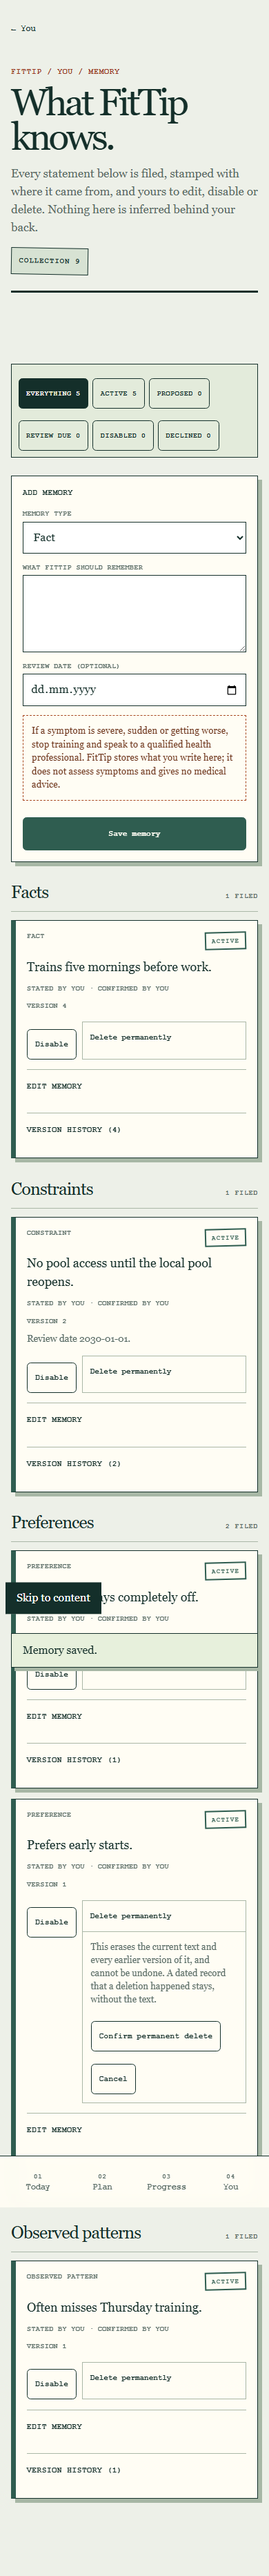
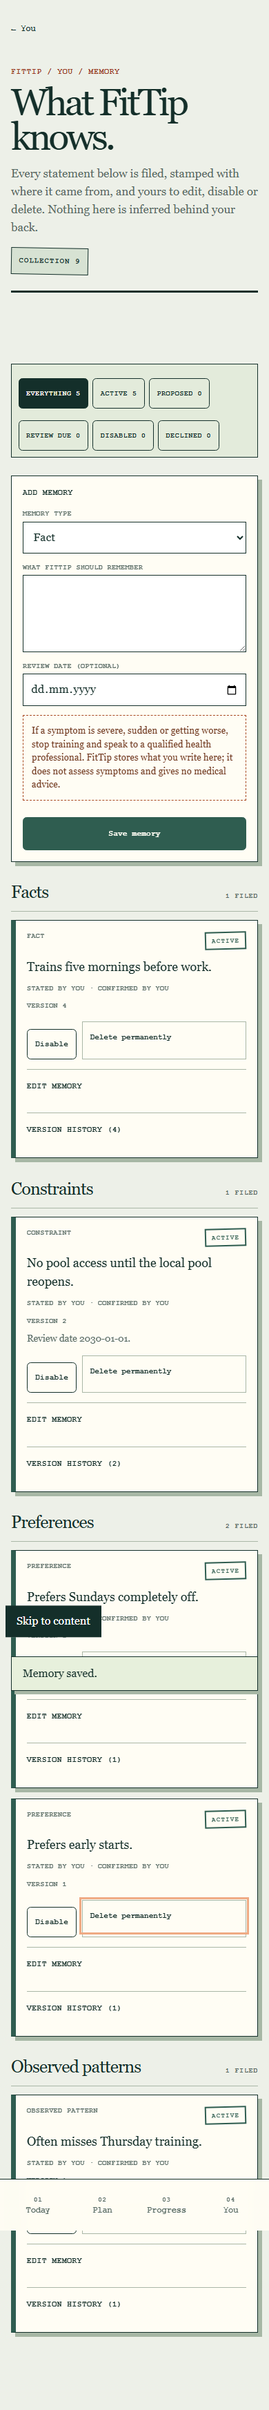
docs(m2-02): disclose the keyboard coverage the deleted block took with it
Neither "The overturned decision" nor limitation 2 mentioned that removing
the decline steps also removed the surface's only keyboard assertion. That
was the one undisclosed thing in the round, and the second review found it by
grep rather than from this record. Both sections now say so plainly, name how
it was restored, and record that the assertion was verified load-bearing.

Also retargets the review to e5dab52, records the second round's approval and
its single correction, updates the deletion step in the mobile demo path to
the keyboard sequence, and adds a reviewer check that keyboard operation
stays covered — since it was lost silently once.

diff --git a/docs/validation/M2/M2-02-VALIDATION.md b/docs/validation/M2/M2-02-VALIDATION.md
@@ -5,7 +5,7 @@
 **Lifecycle state:** testable — awaiting independent exact-commit review
 
 **Exact implementation review target:**
-`39315b9f213f929184c4dcf98bf337e15bfe5532`
+`e5dab52`
 
 **Initial implementation commit:**
 `460ee184cb60c28d41f64481515c0bb8f459249a`
@@ -30,6 +30,9 @@
 - `39315b9f213f929184c4dcf98bf337e15bfe5532` — removes the review-queue steps
   from the 390px flow rather than faking a user path to a proposal, and drops
   the create form's "(starts proposed)" option text.
+- `e5dab52` — the second independent review's one correction: restores
+  keyboard coverage, which had gone with the deleted decline block, by driving
+  permanent deletion entirely by keyboard.
 
 **Lead commit on this branch:** `deabe75` — `ci: run the M2-02 memory browser
 flow` (port 3016). Wiring the flow into continuous integration was a
@@ -63,7 +66,17 @@ and records it.
 authorization, ownership, deletion, provenance, locking, or privacy defect in
 the code. All three are fixed in
 `3fc223732214732067d76618a6e6bd29c47abdc9`; see *The first independent review*
-below. Re-review pending.
+below.
+
+Second round reviewed `d3797bd` and **approved** the reversal of ADR-010
+decision 7: correct and complete, with the forgery invariant intact and, in
+the reviewer's assessment, stronger than before — `proposed` is now
+unreachable from the authenticated write path entirely rather than for three
+classes out of four. The reviewer re-derived the pgTAP revision sequence by
+hand, confirmed the cross-owner assertion is pinned to user B's own revision,
+and independently verified the premise for amending the migration in place.
+One correction: the deleted decline block had carried the surface's only
+keyboard assertion. Fixed in `e5dab52`. Re-review of that commit pending.
 
 **Product-owner acceptance:** not yet requested
 
@@ -140,8 +153,9 @@ Run at `390x844` against a production build, not `next dev`.
    disappears.
 10. Filter to **Proposed 0**. The review queue is empty and says so; nothing
     a user can create ever lands there.
-11. Open **Delete permanently** on any card, read the stated effect, then
-    **Confirm permanent delete**. Reload; the text is gone.
+11. Delete a card **using only the keyboard**: Tab to **Delete permanently**,
+    press Enter to open it, read the stated effect, Tab to **Confirm permanent
+    delete**, press Enter. Reload; the text is gone.
 12. Use the filter buttons. Each shows its own count and explanatory line.
 
 The automated form of this path is
@@ -231,6 +245,20 @@ Three product files changed there: the create-form key in
 `memory-manager.tsx`, the two lock guards in `m2_02_memory.test.sql`, and the
 tests covering the draft. The rest is documentation and re-captured
 screenshots.
+
+The keyboard-coverage round,
+`git diff --stat 39315b9f213f929184c4dcf98bf337e15bfe5532..e5dab52`:
+
+```
+ docs/decisions/ADR-010-M2-MEMORY-WRITE-BOUNDARY.md |  38 +++--
+ docs/validation/M2/M2-02-VALIDATION.md             | 179 ++++++++++++++++-----
+ e2e/m2-02-memory.spec.ts                           |  13 +-
+ 3 files changed, 172 insertions(+), 58 deletions(-)
+```
+
+One product-facing change: the deletion step in `e2e/m2-02-memory.spec.ts` is
+now driven by keyboard. The ADR and record changes in that range are the
+overturned-decision documentation committed alongside it.
 
 The overturned-decision round,
 `git diff --stat 3fc223732214732067d76618a6e6bd29c47abdc9..39315b9f213f929184c4dcf98bf337e15bfe5532`:
@@ -482,6 +510,18 @@ coverage. See limitation 2. The alternative — inventing an app path that
 creates proposals so the flow stayed green — was rejected outright, because it
 would let a user manufacture content that reads as system-inferred.
 
+**A second cost, which the first version of this section failed to disclose.**
+The deleted decline block held the surface's **only** keyboard assertion, so
+removing it left nothing anywhere proving the memory surface is operable
+without a pointer — a ticket requirement at 390px. The builder did not notice;
+the second independent review did, by grepping the spec and the component
+tests for `keyboard`, `toBeFocused`, `toHaveFocus` and `focus()` and finding
+zero hits in both. Restored in `e5dab52` by driving **permanent deletion**
+entirely by keyboard, which is a stricter case than the one lost: the same
+`details`/`summary` confirmation, on the most destructive action on the
+surface, with focus asserted at each step. Confirmed load-bearing — replacing
+the opening Enter with ArrowDown fails the run.
+
 ## Data, migration, API, privacy, and security effects
 
 **Migration** `supabase/migrations/20260801085404_m2_02_memory_model.sql`,
@@ -624,6 +664,8 @@ locally while developing, reported as such.
 | The same flow before the correction, `--repeat-each=6` | **1 failed, 5 passed** — the defect CI caught, reproduced locally |
 | The flow again after the review corrections, `--repeat-each=8` | **8 passed, 0 failed** |
 | The reduced flow after the overturned decision, `--repeat-each=8` | **8 passed, 0 failed** |
+| The flow with the keyboard deletion path, `--repeat-each=8` | **8 passed, 0 failed** |
+| Falsifiability probe: opening Enter replaced with ArrowDown | **run fails**, so the keyboard assertions are load-bearing |
 | `npx.cmd supabase db reset --local` on the amended migration | all 8 migrations applied from zero |
 | New lock guards evaluated against synthetic definitions in `psql` | `'3s'` passes; `'0'`, `'30min'` and an absent setting all fail |
 | `git diff --check` | clean |
@@ -752,7 +794,12 @@ overflow at 390px.
    driving the real surface. Manufacturing a user path to a proposal purely to
    keep the flow green was rejected: it would let a user create content that
    reads as system-inferred, which this ticket forbids outright. The gap
-   closes when M2-03 produces real proposals.
+   closes when M2-03 produces real proposals. Note that keyboard operation is
+   **not** part of this gap: the deleted block had carried the surface's only
+   keyboard assertion, and `e5dab52` restored it on permanent deletion, which
+   uses the identical `details`/`summary` confirmation. What is missing is the
+   review actions themselves, not the interaction pattern they share with the
+   rest of the surface.
 3. **`memory_type` is immutable after creation.** The owner deletes and
    re-files instead. This was originally justified by the forced-`proposed`
    rule, which no longer exists; it stands now only because no approved
@@ -799,15 +846,15 @@ overflow at 390px.
 
 ## Independent reviewer checklist
 
-Review commit `39315b9f213f929184c4dcf98bf337e15bfe5532` on
-`ticket/m2-02-memory-model`, plus the follow-up commit adding this record. The
-first round's three findings are addressed in `3fc2237` and described under
-*The first independent review*; the product owner's reversal of ADR-010
-decision 7 is in `75520c2`, `1796965` and `39315b9` and described under *The
-overturned decision*. The re-review should confirm both and re-check nothing
-else regressed.
+Review commit `e5dab52` on `ticket/m2-02-memory-model`, plus the follow-up
+commit adding this record. The first round's three findings are addressed in
+`3fc2237`; the product owner's reversal of ADR-010 decision 7 is in `75520c2`,
+`1796965` and `39315b9`, which the second round approved. The only outstanding
+change is `e5dab52`, restoring keyboard coverage on permanent deletion, so a
+third round can reasonably scope itself to that commit and to confirming
+nothing else regressed.
 
-Read `git diff 79fdefbb76005264bbea9e1acbdc37f46289b0e4..39315b9f213f929184c4dcf98bf337e15bfe5532`
+Read `git diff 79fdefbb76005264bbea9e1acbdc37f46289b0e4..e5dab52`
 as the source of truth, and confirm the CI run is green for that SHA. Do not
 re-run lint, typecheck, `test:run`, `build`, the database matrix, or the
 browser flow — CI covers them, and CI now includes the 390px memory flow. Note
@@ -869,16 +916,21 @@ Confirm the judgment CI cannot supply:
     branch, and satisfy yourself that amending in place rather than adding a
     forward migration was right here (never applied to a persistent database,
     branch unmerged).
-12. **The recovery tells the truth and claims nothing.** Neither notice may
+12. **Keyboard operation is genuinely covered.** The surface lost its only
+    keyboard assertion once and nobody noticed until a grep found it. Confirm
+    `e2e/m2-02-memory.spec.ts` still drives permanent deletion by focus, Enter,
+    Tab, Enter with the intermediate focus asserted, and that no future edit
+    can quietly remove it again without the grep coming back empty.
+13. **The recovery tells the truth and claims nothing.** Neither notice may
     say the change was saved — the action answers 200 for a success, a
     conflict, a validation failure, an expired session, and a persistence
     error alike. Confirm the lost-render path reloads and the unconfirmed path
     does not, that the session marker carries no memory content, and that
     `settled()` in the spec waits for a real state rather than masking a
     failure.
-13. **Verify the generated-types disclosure yourself.** The claim that the
+14. **Verify the generated-types disclosure yourself.** The claim that the
     nine `save_training_completion` lines diverge on unchanged `master` is
     checkable: remove this ticket's migration and pgTAP file, reset, and
     regenerate.
-14. **Hosted verification** against the Vercel Preview for this exact commit,
+15. **Hosted verification** against the Vercel Preview for this exact commit,
     at `390x844`.
